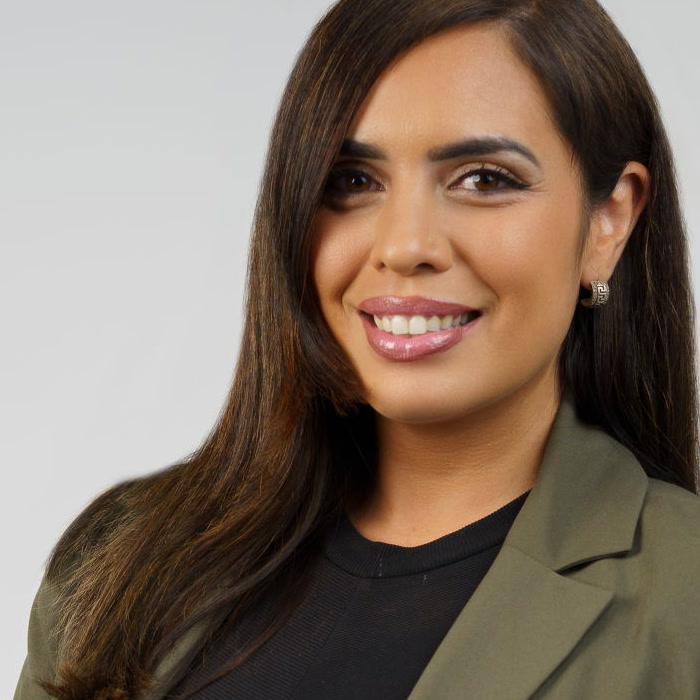
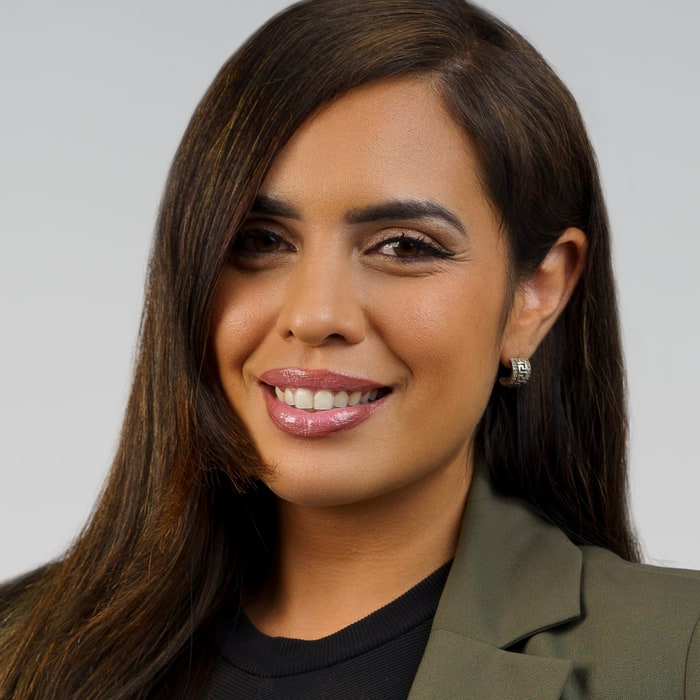
feat : added call and team pictures

diff --git a/site/src/components/home/Rencontre.tsx b/site/src/components/home/Rencontre.tsx
@@ -1,0 +1,89 @@
+import Image from "next/image";
+import { useTranslations } from "next-intl";
+import { Building2, Languages, MapPin, Phone } from "lucide-react";
+import { FaInstagram } from "react-icons/fa6";
+import { courtiers, reseaux, telLink } from "@/lib/content";
+import { Reveal } from "../Reveal";
+import { wrap } from "../ui";
+
+const [paulina] = courtiers;
+
+const points = [
+  { cle: "specialite", Icone: Building2 },
+  { cle: "langues", Icone: Languages },
+  { cle: "bureau", Icone: MapPin },
+] as const;
+
+export function Rencontre() {
+  const t = useTranslations("rencontre");
+  return (
+    <section className="overflow-hidden bg-navy text-white">
+      <div className={`${wrap} flex flex-col gap-20 py-20 lg:flex-row lg:items-center lg:gap-28 lg:py-[110px]`}>
+        <div className="relative w-full max-w-[520px] self-center lg:w-[440px] lg:shrink-0 xl:w-[500px]">
+          <span className="absolute -top-4 -left-4 size-24 border-t-2 border-l-2 border-red" aria-hidden />
+          <Reveal depuis="rideau" className="group relative aspect-[4/5] overflow-hidden">
+            <Image
+              src="/images/paulina-rencontre.jpg"
+              alt={t("alt")}
+              fill
+              sizes="(min-width: 1280px) 500px, (min-width: 1024px) 440px, (min-width: 568px) 520px, 100vw"
+              className="object-cover object-top transition-transform duration-700 ease-doux group-hover:scale-105"
+            />
+          </Reveal>
+          <Reveal
+            depuis="haut"
+            delai={600}
+            className="absolute -right-3 -bottom-12 w-[44%] border-[6px] border-navy sm:-right-10 lg:-right-16"
+          >
+            <Image
+              src="/images/paulina-rencontre-detail.jpg"
+              alt=""
+              width={800}
+              height={800}
+              sizes="240px"
+              className="aspect-square object-cover"
+            />
+          </Reveal>
+        </div>
+
+        <Reveal delai={150} className="flex max-w-[640px] flex-col">
+          <p className="flex items-center gap-4 text-base font-medium tracking-[0.16em] text-white/70">
+            <span className="h-0.5 w-11 bg-red" aria-hidden />
+            {t("label")}
+          </p>
+          <h2 className="mt-8 whitespace-pre-line font-serif text-4xl leading-[1.08] lg:text-5xl">{t("titre")}</h2>
+          <p className="mt-7 text-xl leading-[1.8] text-white/80">{t("texte")}</p>
+          <ul className="mt-9 flex flex-col gap-3.5 border-t border-white/15 pt-8">
+            {points.map(({ cle, Icone }) => (
+              <li key={cle} className="flex items-center gap-3 text-lg">
+                <Icone className="size-4 shrink-0 text-red" aria-hidden />
+                {t(`points.${cle}`)}
+              </li>
+            ))}
+          </ul>
+          <div className="mt-10 flex flex-wrap gap-3">
+            <a
+              href={telLink(paulina.telephone)}
+              className="group flex items-center gap-2.5 bg-red px-5 py-4 text-lg font-semibold transition-colors hover:bg-white hover:text-navy"
+            >
+              <Phone className="size-[18px]" aria-hidden />
+              {t("appeler")}
+              <span className="hidden font-normal text-white/80 group-hover:text-navy/70 sm:inline">
+                · {paulina.telephone}
+              </span>
+            </a>
+            <a
+              href={reseaux.instagram}
+              target="_blank"
+              rel="noopener noreferrer"
+              className="flex items-center gap-2.5 border border-white/40 px-5 py-4 text-lg font-semibold transition-colors hover:border-white hover:bg-white hover:text-navy"
+            >
+              <FaInstagram className="size-[18px]" aria-hidden />
+              {t("instagram")}
+            </a>
+          </div>
+        </Reveal>
+      </div>
+    </section>
+  );
+}

diff --git a/site/src/app/[locale]/page.tsx b/site/src/app/[locale]/page.tsx
@@ -9,6 +9,7 @@ import { EvaluationCta } from "@/components/home/EvaluationCta";
 import { Hero } from "@/components/home/Hero";
 import { Piliers } from "@/components/home/Piliers";
 import { Proprietes } from "@/components/home/Proprietes";
+import { Rencontre } from "@/components/home/Rencontre";
 import { Services } from "@/components/home/Services";
 import { Temoignages } from "@/components/home/Temoignages";
 import { listerProprietes } from "@/lib/backoffice/proprietes";
@@ -30,6 +31,7 @@ export default async function Accueil({ params }: PageProps<"/[locale]">) {
         <Equipe />
         {proprietes.length > 0 && <Proprietes proprietes={proprietes} />}
         <Temoignages />
+        <Rencontre />
         <EvaluationCta />
       </main>
       <SiteFooter />

diff --git a/site/src/lib/content.ts b/site/src/lib/content.ts
@@ -3,7 +3,7 @@ export const courtiers = [
     cle: "paulina",
     prenom: "Paulina",
     nom: "Paulina Urra",
-    photo: "/images/paulina-portrait.jpg",
+    photo: "/images/paulina-equipe.jpg",
     avatar: "/images/paulina-avatar.jpg",
     telephone: "438 866-2204",
     courriel: "paulina.urra@remax-quebec.com",
